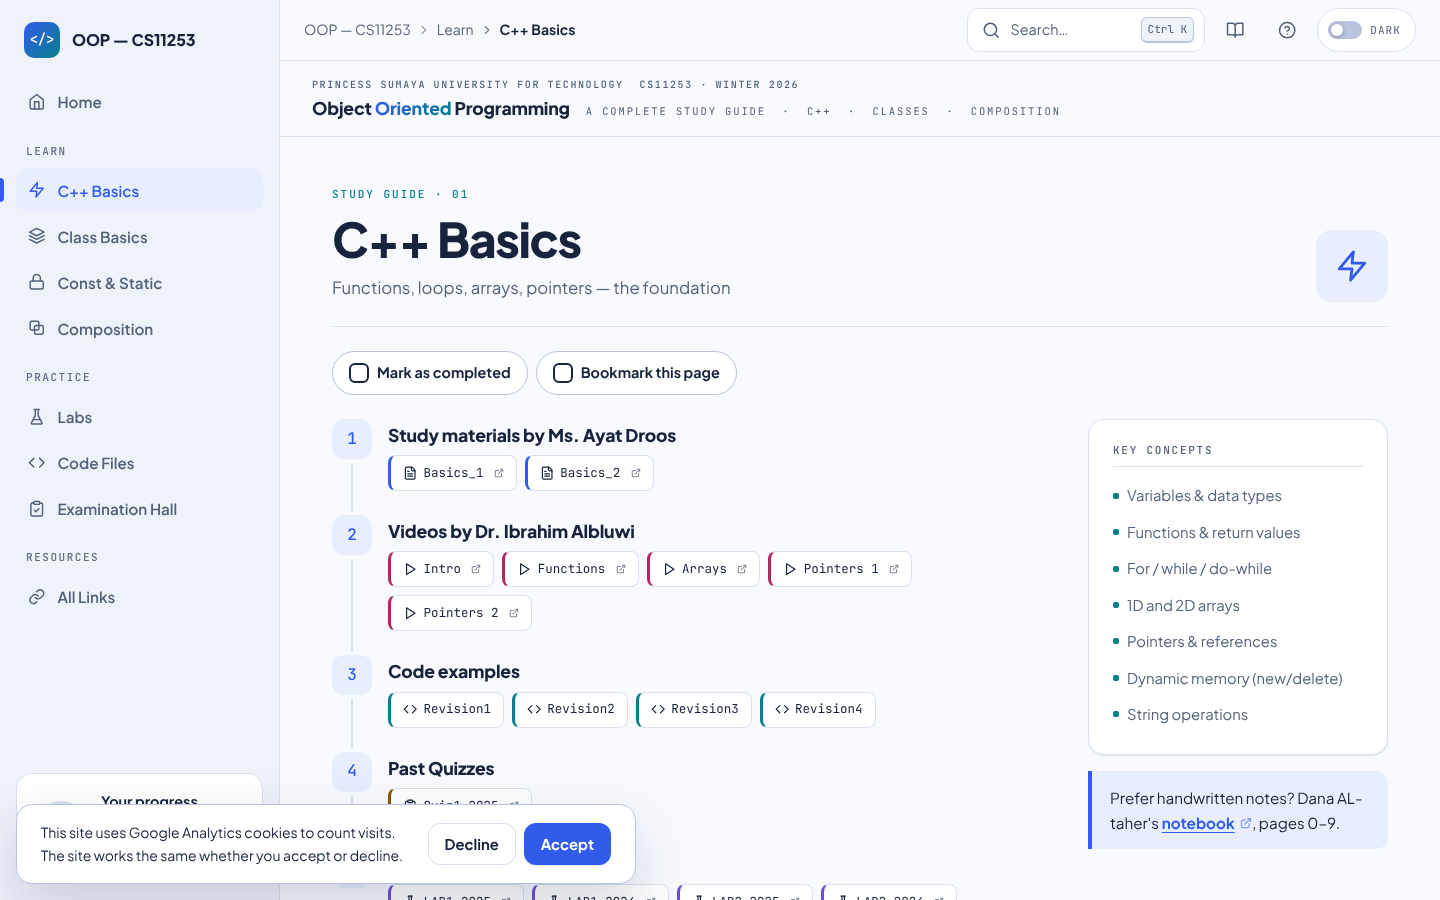
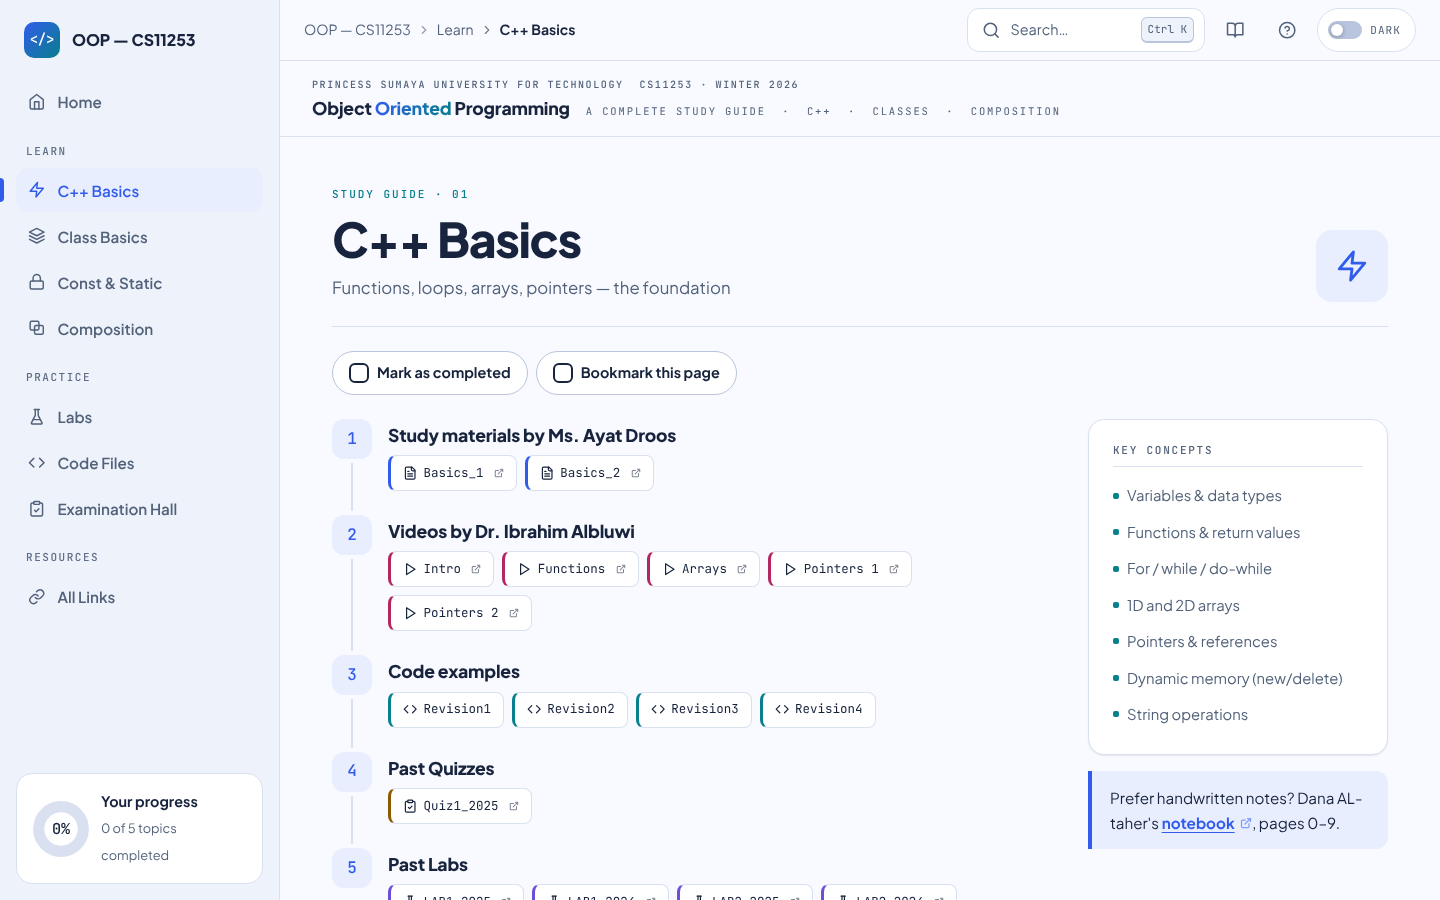
Remove visitor-facing consent notice; keep the Google tag
Claude-Session: https://claude.ai/code/session_01F1yJWmAJLPR4DhvPQRWLSs

Changed region(s): [[0.0, 0.8711, 0.4375, 1.0], [0.2812, 0.8711, 0.3438, 0.9022]]

diff --git a/assets/css/components.css b/assets/css/components.css
@@ -962,41 +962,3 @@ html.dark .toast .i {
   .pager { grid-template-columns: 1fr; }
   .pager .next { grid-column: auto; }
 }
-
-/* ───────────── 8. Analytics notice (consent.js) ───────────── */
-.consent-bar {
-  position: fixed;
-  left: 16px;
-  bottom: 16px;
-  z-index: var(--z-toast);
-  display: flex;
-  align-items: center;
-  gap: var(--s-3);
-  flex-wrap: wrap;
-  max-width: 620px;
-  padding: var(--s-3) var(--s-4);
-  border: 1px solid var(--border-strong);
-  border-radius: var(--r-lg);
-  background: var(--card);
-  color: var(--text);
-  box-shadow: var(--shadow-3);
-  font-size: 0.875rem;
-  animation: toastIn 250ms var(--ease);
-}
-
-.consent-bar p { flex: 1 1 260px; }
-
-.consent-actions { display: flex; gap: var(--s-2); }
-
-.consent-bar .btn { min-height: 40px; padding: 8px 16px; }
-
-/* keep the back-to-top button clear of the bar while it is showing */
-body.has-consent-bar .fab { bottom: 120px; }
-
-.site-footer .consent-link { color: var(--accent); }
-
-@media (max-width: 640px) {
-  .consent-bar { left: 8px; right: 8px; bottom: 8px; }
-  .consent-actions { width: 100%; }
-  .consent-actions .btn { flex: 1; }
-}

diff --git a/const-static.html b/const-static.html
@@ -6,8 +6,6 @@
   <meta name="viewport" content="width=device-width, initial-scale=1.0" />
   <title>Const &amp; Static · OOP — CS11253</title>
   <meta name="description" content="OOP CS11253 study guide — Const &amp; Static" />
-  <!-- Consent defaults (analytics denied until the visitor accepts) — must run before the Google tag -->
-  <script src="assets/js/consent-init.js"></script>
   <!-- Google tag (gtag.js) -->
   <script async src="https://www.googletagmanager.com/gtag/js?id=G-4JHKFQBZ63"></script>
   <script>
@@ -134,7 +132,6 @@
   <script src="assets/js/library.js"></script>
   <script src="assets/js/search.js"></script>
   <script src="assets/js/page-features.js"></script>
-  <script src="assets/js/consent.js"></script>
   <script src="assets/js/app.js"></script>
 </body>
 

diff --git a/examination-hall.html b/examination-hall.html
@@ -6,8 +6,6 @@
   <meta name="viewport" content="width=device-width, initial-scale=1.0" />
   <title>Examination Hall · OOP — CS11253</title>
   <meta name="description" content="OOP CS11253 study guide — Examination Hall" />
-  <!-- Consent defaults (analytics denied until the visitor accepts) — must run before the Google tag -->
-  <script src="assets/js/consent-init.js"></script>
   <!-- Google tag (gtag.js) -->
   <script async src="https://www.googletagmanager.com/gtag/js?id=G-4JHKFQBZ63"></script>
   <script>
@@ -190,7 +188,6 @@
   <script src="assets/js/library.js"></script>
   <script src="assets/js/search.js"></script>
   <script src="assets/js/page-features.js"></script>
-  <script src="assets/js/consent.js"></script>
   <script src="assets/js/app.js"></script>
 </body>
 

diff --git a/code-files.html b/code-files.html
@@ -6,8 +6,6 @@
   <meta name="viewport" content="width=device-width, initial-scale=1.0" />
   <title>Code Files · OOP — CS11253</title>
   <meta name="description" content="OOP CS11253 study guide — Code Files" />
-  <!-- Consent defaults (analytics denied until the visitor accepts) — must run before the Google tag -->
-  <script src="assets/js/consent-init.js"></script>
   <!-- Google tag (gtag.js) -->
   <script async src="https://www.googletagmanager.com/gtag/js?id=G-4JHKFQBZ63"></script>
   <script>
@@ -107,7 +105,6 @@
   <script src="assets/js/page-features.js"></script>
   <script src="assets/js/code-data.js"></script>
   <script src="assets/js/code-viewer.js"></script>
-  <script src="assets/js/consent.js"></script>
   <script src="assets/js/app.js"></script>
 </body>
 

diff --git a/class-basics.html b/class-basics.html
@@ -6,8 +6,6 @@
   <meta name="viewport" content="width=device-width, initial-scale=1.0" />
   <title>Class Basics · OOP — CS11253</title>
   <meta name="description" content="OOP CS11253 study guide — Class Basics" />
-  <!-- Consent defaults (analytics denied until the visitor accepts) — must run before the Google tag -->
-  <script src="assets/js/consent-init.js"></script>
   <!-- Google tag (gtag.js) -->
   <script async src="https://www.googletagmanager.com/gtag/js?id=G-4JHKFQBZ63"></script>
   <script>
@@ -144,7 +142,6 @@
   <script src="assets/js/library.js"></script>
   <script src="assets/js/search.js"></script>
   <script src="assets/js/page-features.js"></script>
-  <script src="assets/js/consent.js"></script>
   <script src="assets/js/app.js"></script>
 </body>
 

diff --git a/composition.html b/composition.html
@@ -6,8 +6,6 @@
   <meta name="viewport" content="width=device-width, initial-scale=1.0" />
   <title>Composition · OOP — CS11253</title>
   <meta name="description" content="OOP CS11253 study guide — Composition" />
-  <!-- Consent defaults (analytics denied until the visitor accepts) — must run before the Google tag -->
-  <script src="assets/js/consent-init.js"></script>
   <!-- Google tag (gtag.js) -->
   <script async src="https://www.googletagmanager.com/gtag/js?id=G-4JHKFQBZ63"></script>
   <script>
@@ -129,7 +127,6 @@
   <script src="assets/js/library.js"></script>
   <script src="assets/js/search.js"></script>
   <script src="assets/js/page-features.js"></script>
-  <script src="assets/js/consent.js"></script>
   <script src="assets/js/app.js"></script>
 </body>
 

diff --git a/cpp-basics.html b/cpp-basics.html
@@ -6,8 +6,6 @@
   <meta name="viewport" content="width=device-width, initial-scale=1.0" />
   <title>C++ Basics · OOP — CS11253</title>
   <meta name="description" content="OOP CS11253 study guide — C++ Basics" />
-  <!-- Consent defaults (analytics denied until the visitor accepts) — must run before the Google tag -->
-  <script src="assets/js/consent-init.js"></script>
   <!-- Google tag (gtag.js) -->
   <script async src="https://www.googletagmanager.com/gtag/js?id=G-4JHKFQBZ63"></script>
   <script>
@@ -133,7 +131,6 @@
   <script src="assets/js/library.js"></script>
   <script src="assets/js/search.js"></script>
   <script src="assets/js/page-features.js"></script>
-  <script src="assets/js/consent.js"></script>
   <script src="assets/js/app.js"></script>
 </body>
 

diff --git a/all-links.html b/all-links.html
@@ -6,8 +6,6 @@
   <meta name="viewport" content="width=device-width, initial-scale=1.0" />
   <title>All Links · OOP — CS11253</title>
   <meta name="description" content="OOP CS11253 study guide — All Links" />
-  <!-- Consent defaults (analytics denied until the visitor accepts) — must run before the Google tag -->
-  <script src="assets/js/consent-init.js"></script>
   <!-- Google tag (gtag.js) -->
   <script async src="https://www.googletagmanager.com/gtag/js?id=G-4JHKFQBZ63"></script>
   <script>
@@ -151,7 +149,6 @@
   <script src="assets/js/library.js"></script>
   <script src="assets/js/search.js"></script>
   <script src="assets/js/page-features.js"></script>
-  <script src="assets/js/consent.js"></script>
   <script src="assets/js/app.js"></script>
 </body>
 

diff --git a/labs.html b/labs.html
@@ -6,8 +6,6 @@
   <meta name="viewport" content="width=device-width, initial-scale=1.0" />
   <title>Labs · OOP — CS11253</title>
   <meta name="description" content="OOP CS11253 study guide — Labs" />
-  <!-- Consent defaults (analytics denied until the visitor accepts) — must run before the Google tag -->
-  <script src="assets/js/consent-init.js"></script>
   <!-- Google tag (gtag.js) -->
   <script async src="https://www.googletagmanager.com/gtag/js?id=G-4JHKFQBZ63"></script>
   <script>
@@ -176,7 +174,6 @@
   <script src="assets/js/library.js"></script>
   <script src="assets/js/search.js"></script>
   <script src="assets/js/page-features.js"></script>
-  <script src="assets/js/consent.js"></script>
   <script src="assets/js/app.js"></script>
 </body>
 

diff --git a/index.html b/index.html
@@ -6,8 +6,6 @@
   <meta name="viewport" content="width=device-width, initial-scale=1.0" />
   <title>OOP — CS11253</title>
   <meta name="description" content="OOP CS11253 study guide — Home" />
-  <!-- Consent defaults (analytics denied until the visitor accepts) — must run before the Google tag -->
-  <script src="assets/js/consent-init.js"></script>
   <!-- Google tag (gtag.js) -->
   <script async src="https://www.googletagmanager.com/gtag/js?id=G-4JHKFQBZ63"></script>
   <script>
@@ -181,7 +179,6 @@
   <script src="assets/js/library.js"></script>
   <script src="assets/js/search.js"></script>
   <script src="assets/js/page-features.js"></script>
-  <script src="assets/js/consent.js"></script>
   <script src="assets/js/app.js"></script>
 </body>
 

diff --git a/assets/js/app.js b/assets/js/app.js
@@ -82,7 +82,6 @@
     OOP.progress.init();
     OOP.features.init();
     OOP.search.init();
-    OOP.consent.init();
     if (document.body.getAttribute('data-page') === 'code') OOP.codeViewer.init();
 
     document.getElementById('readingBtn').addEventListener('click', function () {

diff --git a/README.md b/README.md
@@ -206,9 +206,9 @@ Script order (each page): `config → storage → theme → layout → progress 
 - **Themes**: light/dark (saved; follows the OS until you choose). **Reading mode** (`R`). **Shortcuts help** (`?`).
 - **Accessibility**: semantic headings, labelled controls, visible focus, focus-managed native `<dialog>`s, `aria-current`/`aria-pressed`/`aria-live` status, reduced-motion support, touch targets ≥ 44px on touch devices.
 
-### Analytics (Google tag) and consent
+### Analytics
 
-Every page's `<head>` contains the Google tag (`G-4JHKFQBZ63`). It is preceded by `consent-init.js`, which sets Google Consent Mode to **denied** until a visitor clicks **Accept** in the small notice bar (`consent.js`). The choice is saved in `localStorage` (`oop-consent`) and can be changed any time from **Cookie settings** in the footer. The bar never blocks the page. To remove analytics entirely, delete the "Consent defaults" and "Google tag" blocks from each page's `<head>` and the `consent.js` include.
+Every page's `<head>` contains the Google tag (`G-4JHKFQBZ63`). To remove it, delete the "Google tag (gtag.js)" block from each page.
 
 ### Run locally
 
